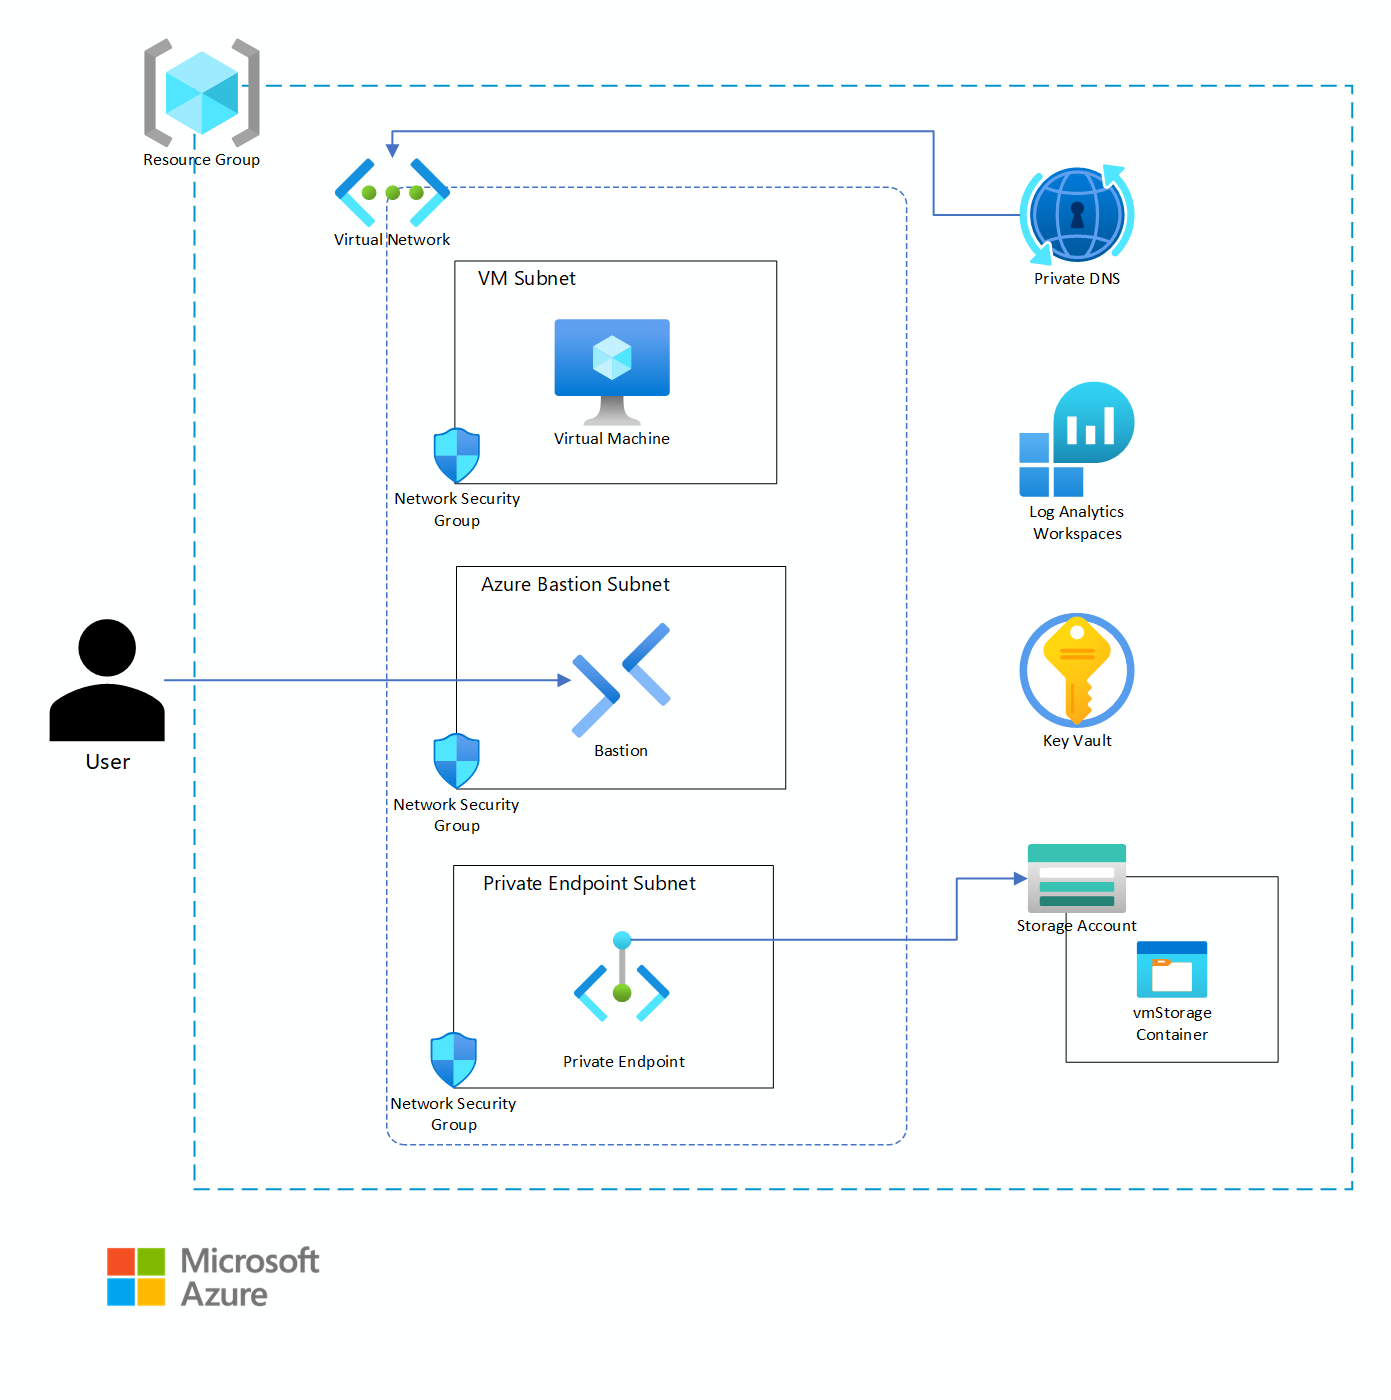
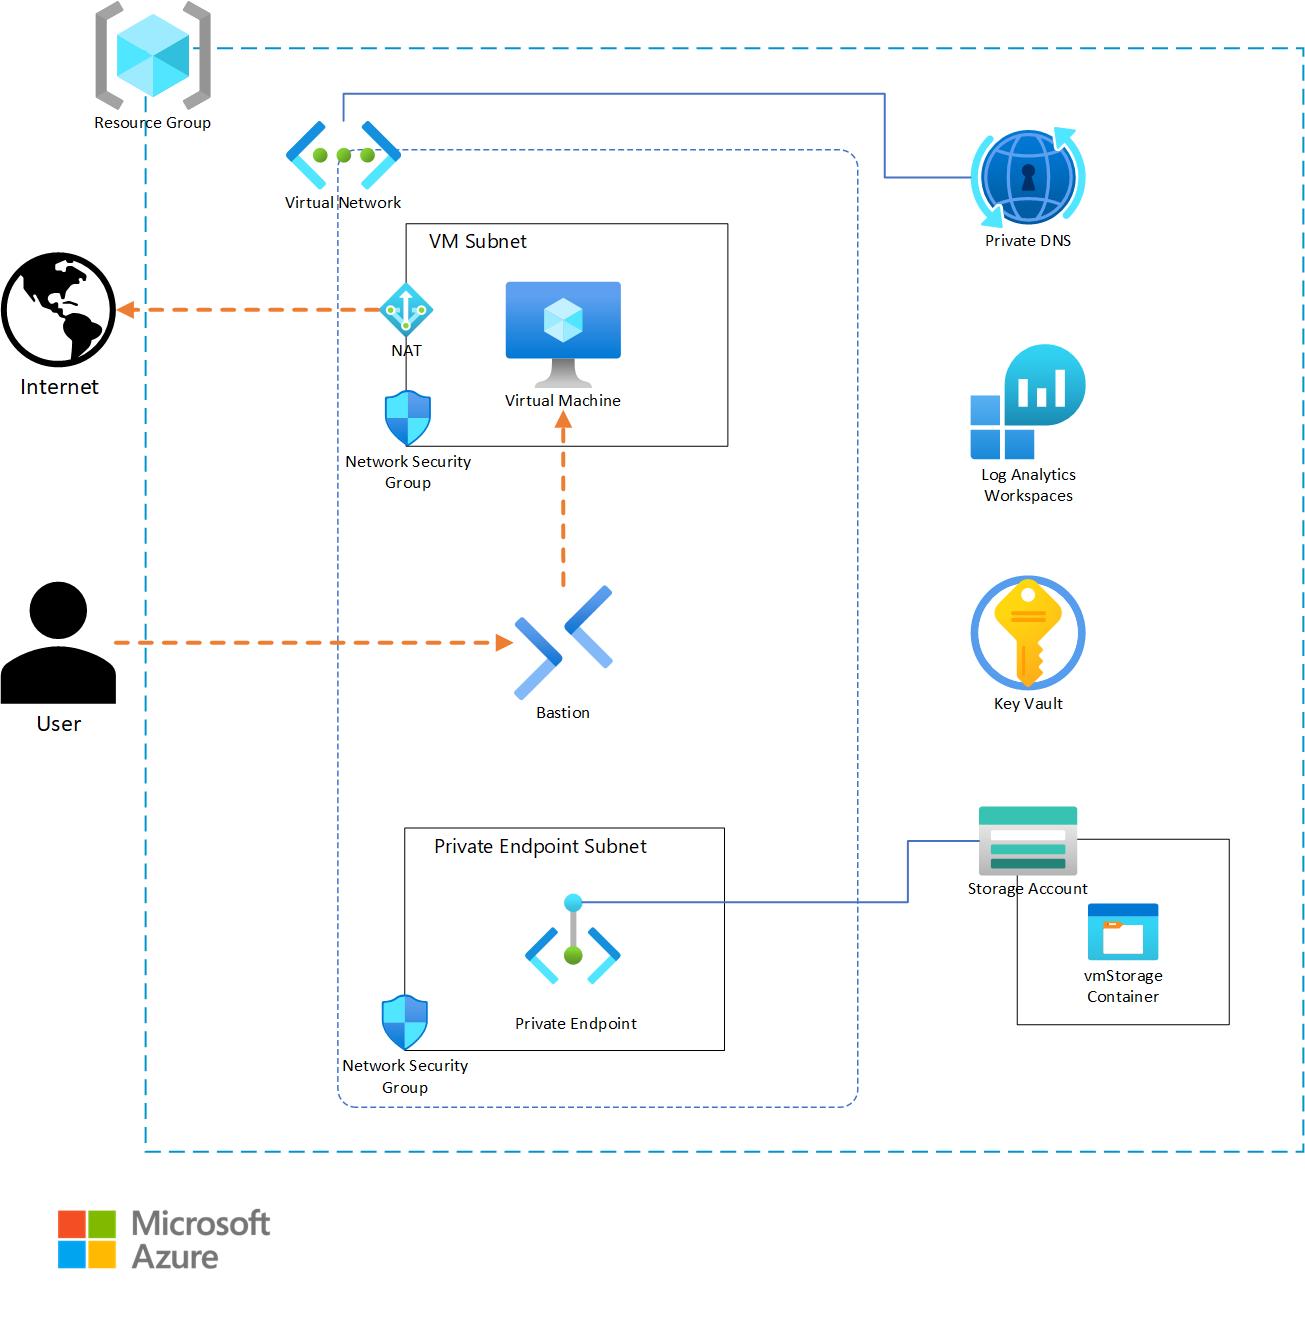
update image and diagram

diff --git a/docs/content/usage/solution-development/bicep.md b/docs/content/usage/solution-development/bicep.md
@@ -293,7 +293,7 @@ We'll add a Network Security Group (NSG) to our VM subnet. This will act as a la
 Because our Storage Account is a backend resource that only our Virtual Machine should have access to, we will secure it as much as possible. We'll do this by adding a Private Endpoint to it and disable public internet access. AVM makes creating and assigning Private Endpoints to resources incredibly easy. Take a look:
 
 {{% expand title="➕ Expand Code" %}}
-{{< code file="\content\usage\includes\bicep\VirtualMachineAVM_Example1\steps\step10.bicep" lang="bicep" hl_lines="52-55 169-174 178-190" line_anchors="vm-pes" >}}
+{{< code file="\content\usage\includes\bicep\VirtualMachineAVM_Example1\steps\step10.bicep" lang="bicep" hl_lines="52-55 169-181 185-197" line_anchors="vm-pes" >}}
 {{% /expand %}}
 
 First, we added a new Subnet to our `virtualNetwork` module to hold our Private Endpoints. It is a recommended practice to have a dedicated subnet to hold all of your Private Endpoints.
@@ -309,14 +309,10 @@ The last thing we have done is add a Private DNS zone and linked it to our VNet.
 In order to securely access our Virtual Machine without exposing its SSH port to the public internet is to create an Azure Bastion host.
 
 {{% expand title="➕ Expand Code" %}}
-{{< code file="\content\usage\includes\bicep\VirtualMachineAVM_Example1\steps\step11.bicep" lang="bicep" hl_lines="192-206" line_anchors="vm-bastion" >}}
+{{< code file="\content\usage\includes\bicep\VirtualMachineAVM_Example1\steps\step11.bicep" lang="bicep" hl_lines="199-213" line_anchors="vm-bastion" >}}
 {{% /expand %}}
 
 All we have done is add the `bastion-host` AVM module to our template and ensured that it is associated with our Virtual Network.
-
-{{% notice style="info" %}}
-Azure Bastion requires a dedicated subnet with the name `AzureBastionSubnet`. We already created a subnet with that exact name in our `virtualNetwork` module. When this Azure Bastion host is created, it will use that subnet automatically.
-{{% /notice %}}
 
 ### RBAC
 
